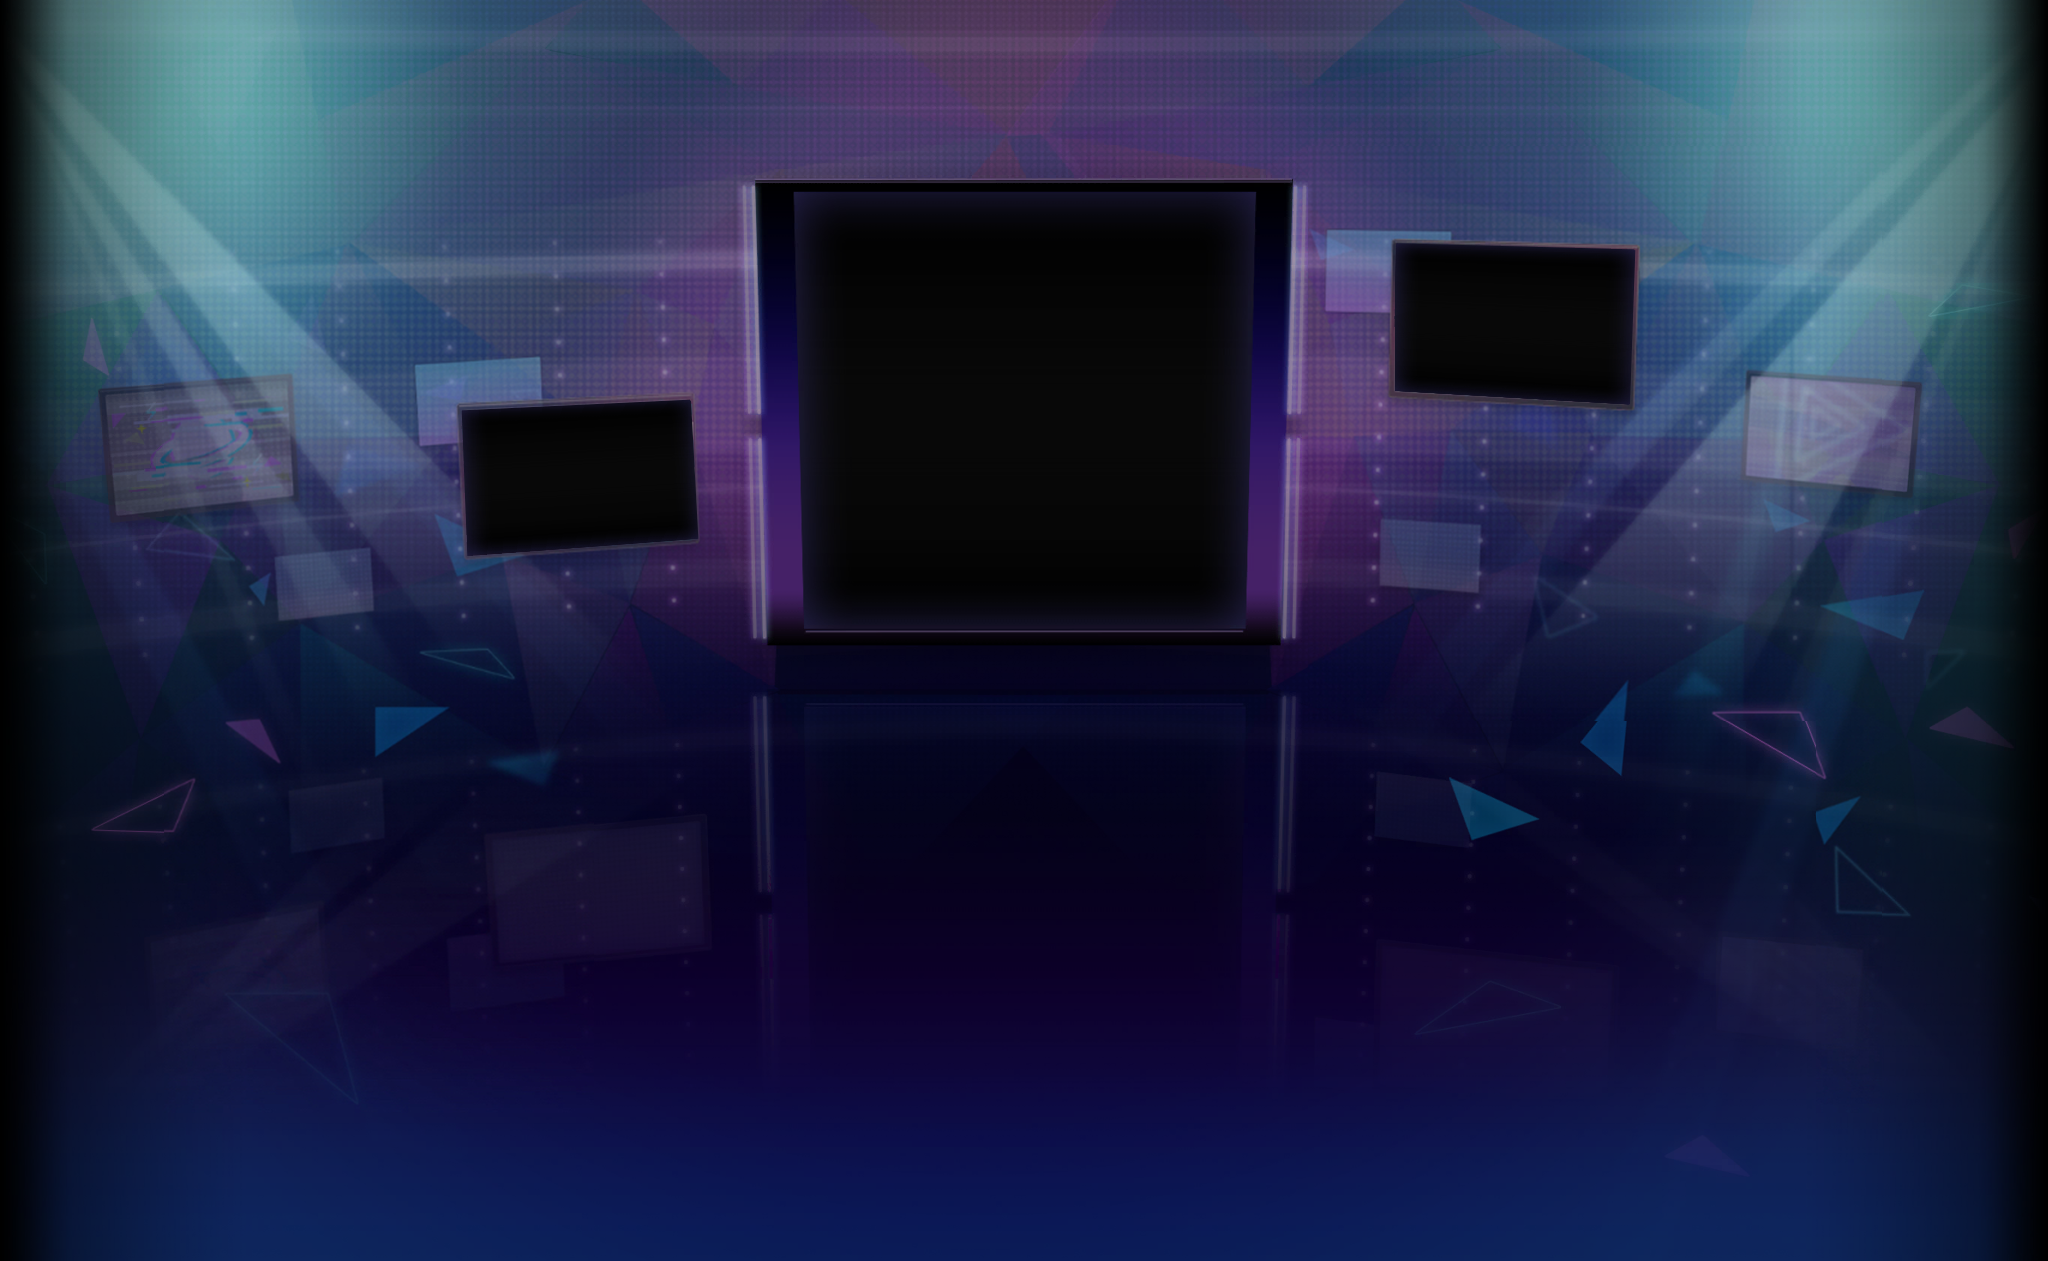
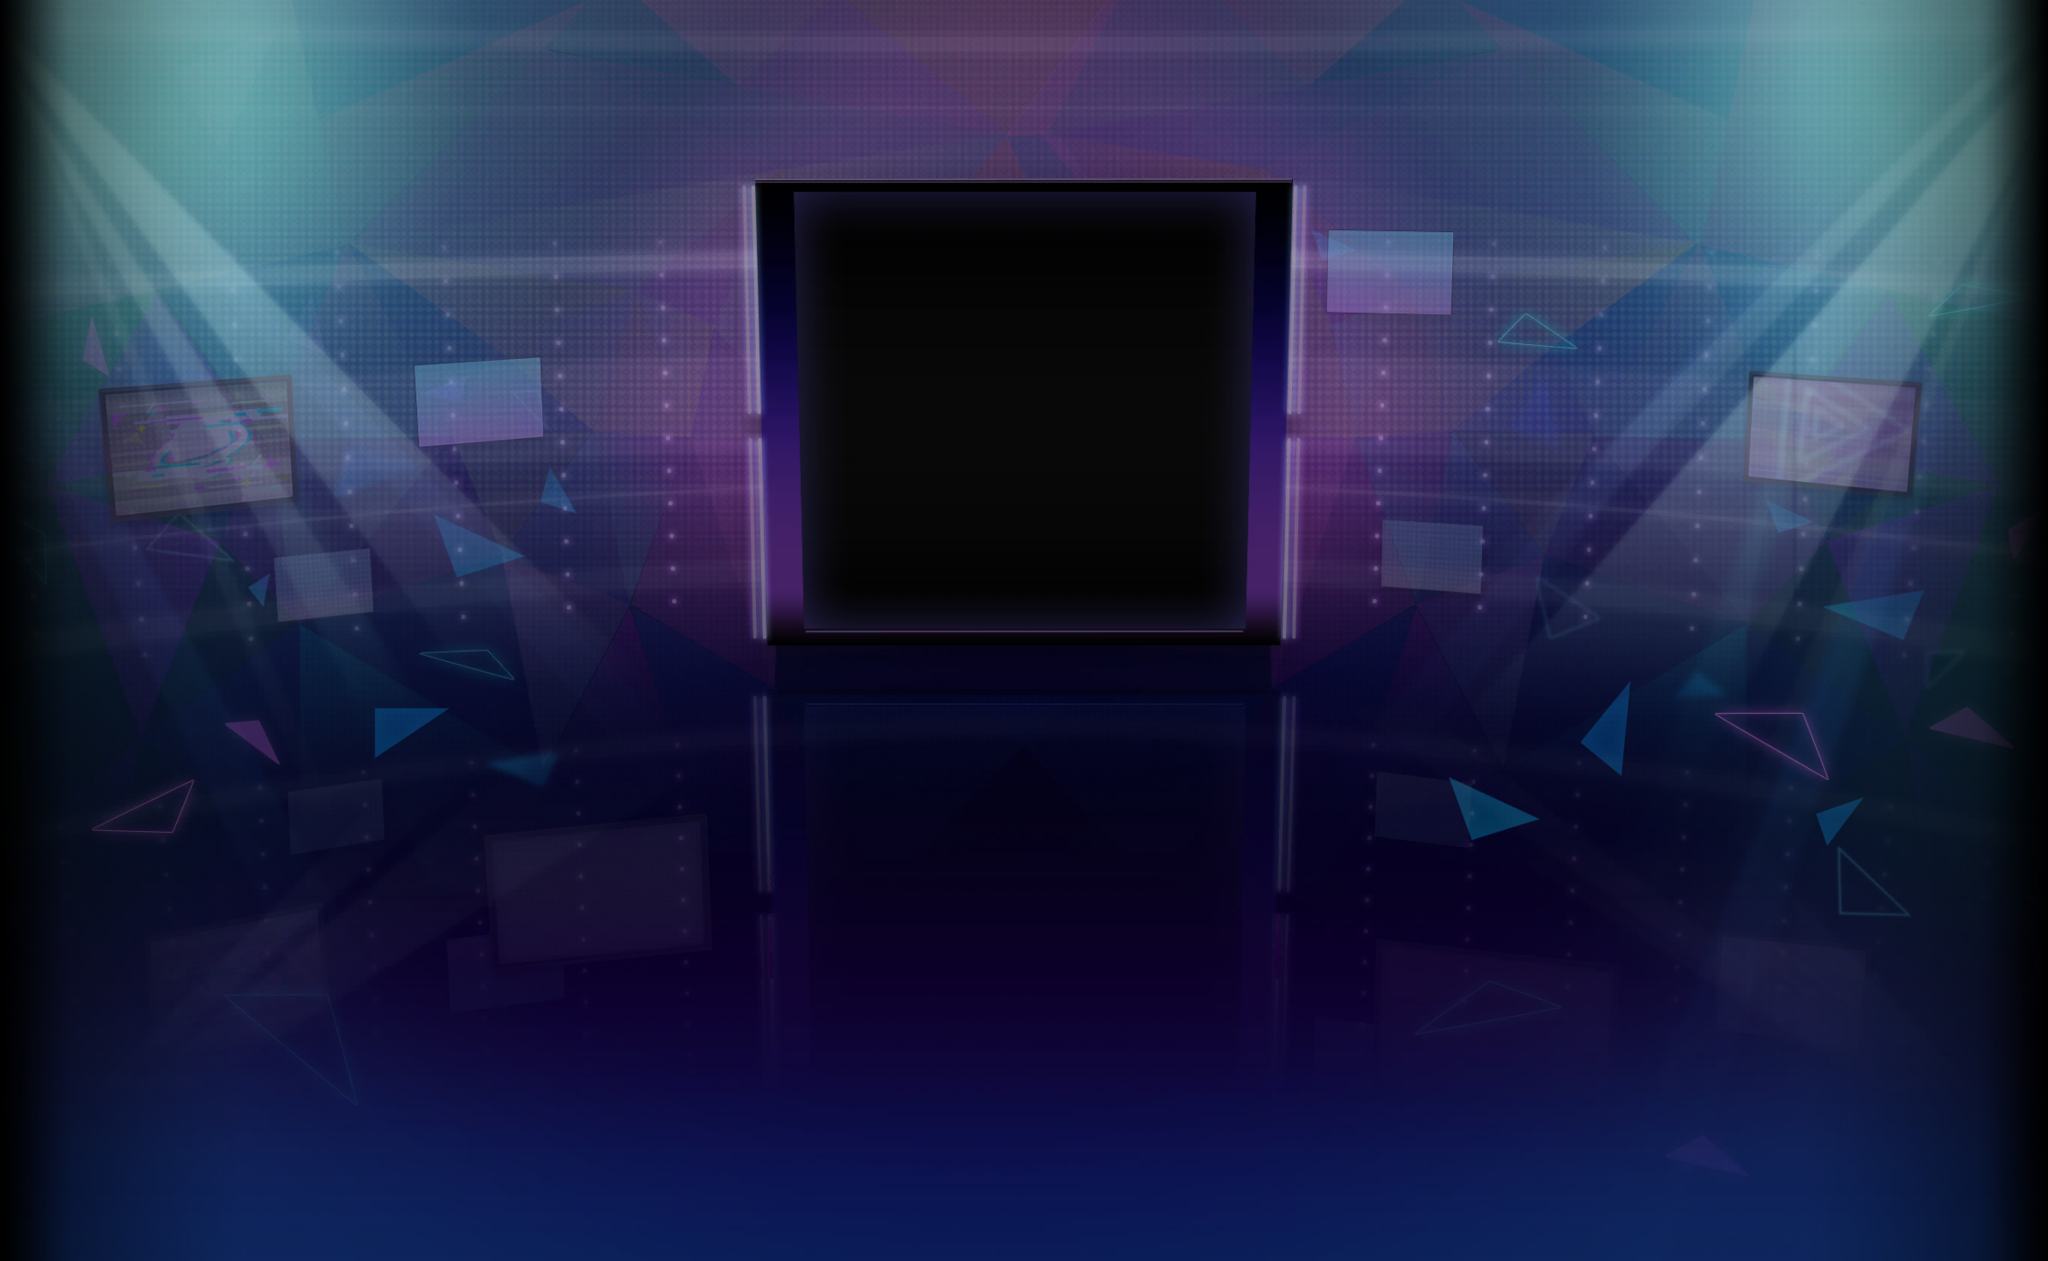
Improve: Improve generation

Changed region(s): [[0.6562, 0.1856, 0.8125, 0.3402], [0.2188, 0.3093, 0.3438, 0.4639]]

diff --git a/pjsekai_background_gen_pillow/core.py b/pjsekai_background_gen_pillow/core.py
@@ -5,7 +5,7 @@ assets_dir = os.path.dirname(__file__) + "/assets"
 base_normal = Image.open(assets_dir + "/background-base.png")
 mask_img = Image.open(assets_dir + "/mask.png").convert("L")
 side_mask = Image.open(assets_dir + "/side-mask.png")
-dot_tile = Image.open(assets_dir + "/dot-tilea.png")
+frame = Image.open(assets_dir + "/frame.png")
 
 
 class Deformer:
@@ -113,11 +113,11 @@ class Generator:
         # base.paste(base2, (0, 0), mask=mask_img)
         buffer = Image.alpha_composite(base, base2)
         buffer.paste(base3, (0, 0), mask=side_mask)
-        buffer = Image.alpha_composite(buffer, dot_tile)
         res = Image.new("RGBA", mask_img.size)
         diff = (buffer.height - mask_img.height) // 2
         # print(buffer.crop((0, diff, base.width, base.height - diff)).size, mask_img.size)
         res.paste(base.crop((0, diff, base.width, base.height - diff - 1)), (0, 0))
         res.paste(buffer.crop((0, diff, base.width, base.height - diff - 1)), (0, 0), mask=mask_img)
+        res.paste(frame, (0, -diff), mask=frame)
         res = res.convert("RGB")
         return res

diff --git a/example.py b/example.py
@@ -1,0 +1,5 @@
+import pjsekai_background_gen_pillow as pjbg
+from PIL import Image
+
+generator = pjbg.Generator()
+generator.generate(Image.open("test.png")).save("dist.png")

diff --git a/README.md b/README.md
@@ -45,3 +45,7 @@ source : PIL.Image
 ##### Returns
 
 PIL.Image
+
+## License
+
+This library is licensed under GPLv3. `test.png` is licensed under CC-BY-SA 4.0.
